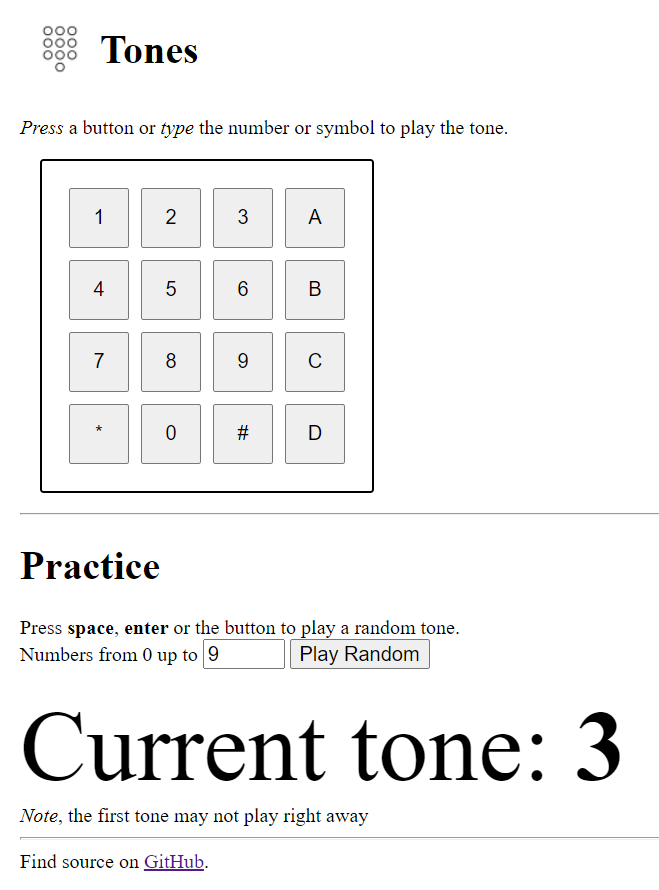
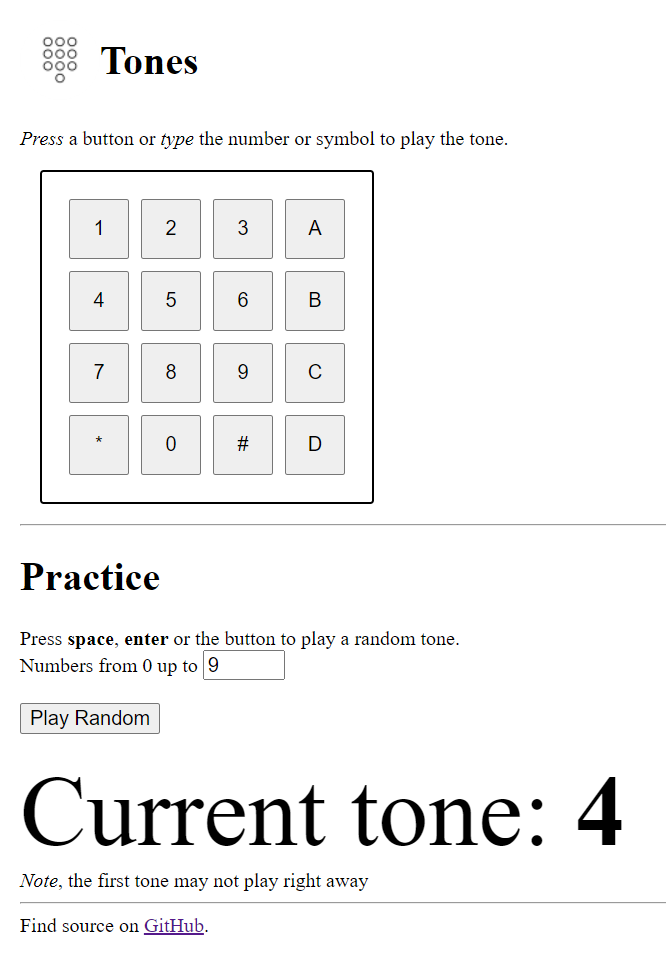
Improve usability of practice button

diff --git a/index.html b/index.html
@@ -51,6 +51,8 @@
         Press <b>space</b>, <b>enter</b> or the button to play a random tone.
         <form onsubmit="onPracticeSubmit(event)">
             <label>Numbers from 0 up to <input id="max-tone" type="number" min=0 max=9 value="9" /></label>
+            <br />
+            <br />
             <button type="submit">Play Random</button>
         </form>
 
